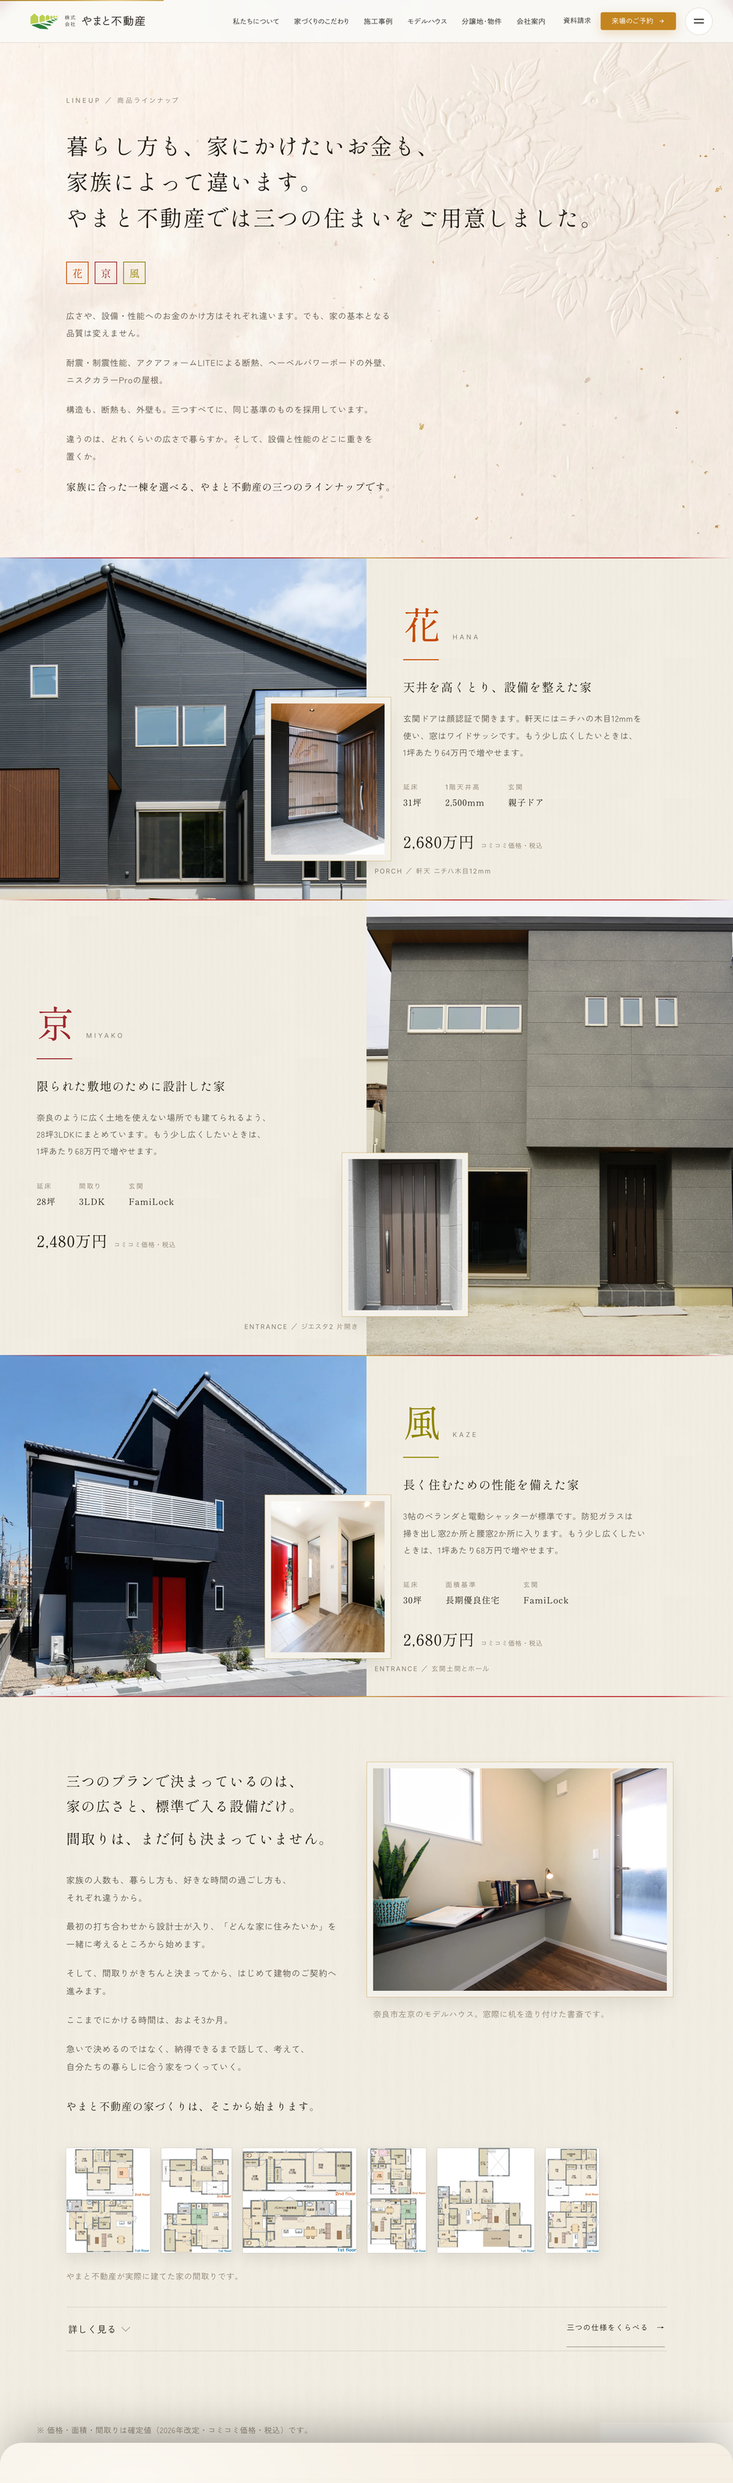
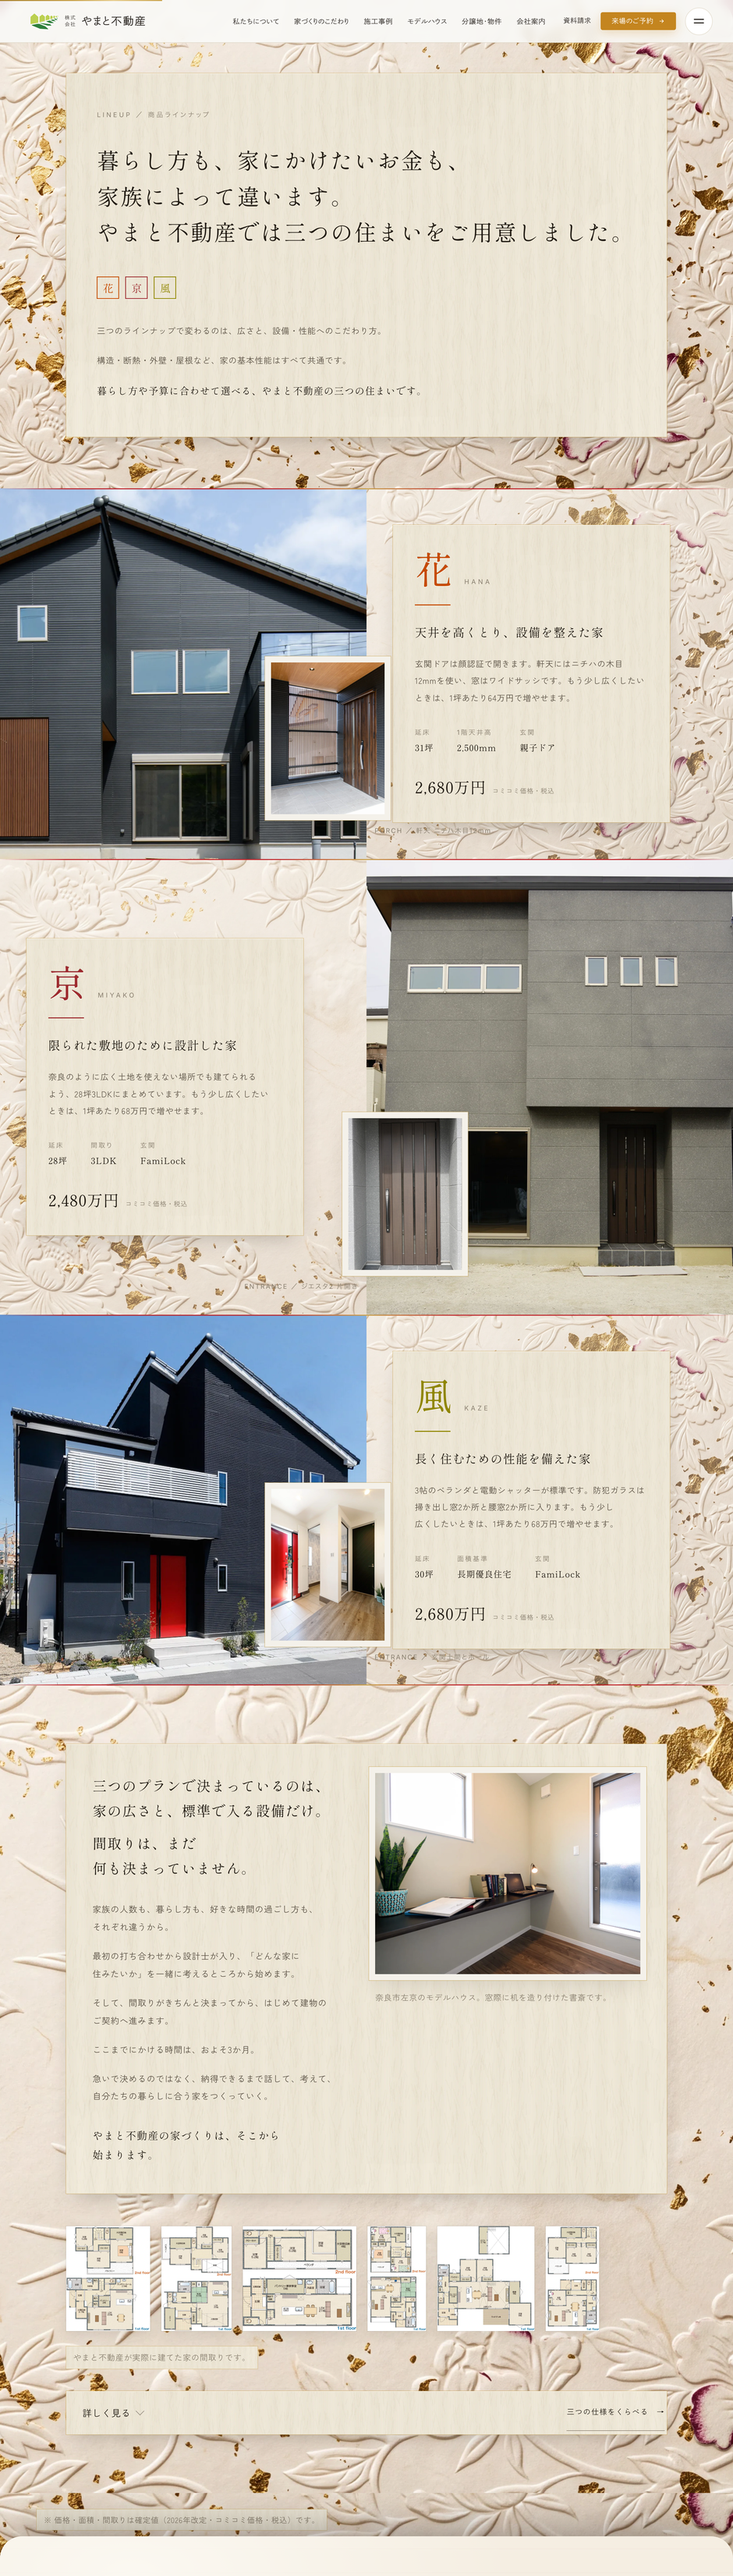
lineup: 「貼り込みのカタログ」へ再構築 — 装飾は台紙で全開、文字は紙葉の上
ユーザー指摘「ここはページの心臓。背景や装飾がもっとも上質であるべき」。

■ 診断
承認済みセクションは全て「物」になっている（FV=箔押しカタログ、信条=台紙と手紙、
声=便箋と消印）のに、lineupだけ紙が「背景」でWebページのままだった。
質感を殺した犯人は自分: 文字を地に直接乗せる設計にしたため、可読性のために
床をクランプし薄膜を重ね、空押し紙を半殺しで使っていた（実測ざらつき1.39）。
解は信条の「台紙と手紙」——面を分ければ質感と可読性の綱引きは消える。

■ 実装
・台紙: 牡丹の環＋燕＋金箔＋紅の花弁を全開で焼いた紙を新規生成
  （nano_banana_pro・クランプなし。ざらつき10.6=FV表紙5.19の2倍。
  生成は「商品撮影」として紙の縁と灰地が写るので内側3900x2560を切り出した。
  縁が濃く中央が静かな構図＝紙葉が中央を覆う台紙として理想）
・紙葉: 入口・帯パネル・出口本文・扉列を page_kinari_letter（コントラスト床保証済み）
  ＋金の毛罫＋持ち上げ影の紙葉に。台紙には文字を一切乗せない
  （台紙直載りだった間取りキャプションと注記はチップ化）
・帯パネルの台紙は cover 拡大で金箔が巨大化するため薄膜.30で半歩引かせ、
  帯ごとに切り取り位置を変えて繰り返しを消した
・花京風の大文字は活版の空押し（シリーズ色インク＋紙の凹み）。金文字はやらない
・旧・箔燕オーバーレイと入口の旧生成紙は台紙が役割を持つため撤去

■ 罠2つ
・SPで見出しspanが器より広くなり句の途中で折れた（「かけた/いお金も」）
  → 640px以下はinlineに戻して word-break:auto-phrase の文節折りに任せる
・紙葉のパディング分で320pxの価格が「2,680万|円」と割れた
  → 金額と注記に white-space:nowrap、行はflex-wrapで丸ごと折る

mobile-verify: #lineup 由来 FAIL 0。

diff --git a/index.html b/index.html
@@ -645,6 +645,13 @@
     --lu-fg:"Zen Kaku Gothic New",sans-serif;
     --lu-fn:"Inter",sans-serif;
     --lu-gx:clamp(22px,5vw,88px);
+    /* 台紙（貼り込みカタログ 2026-08-21）: 装飾は台紙で全開、文字は紙葉の上。
+       面を分けたので台紙側に可読性の制約が無い（信条の「台紙と手紙」と同じ解）。 */
+    --lu-mount:url("assets/std/lineup_mount_2400.webp");
+    --lu-sheet-bg:url("assets/std/page_kinari_letter_2400.webp");
+    --lu-sheet-edge:0 0 0 1px rgba(201,162,75,.5),
+      inset 0 1px 0 rgba(255,255,255,.65),
+      0 18px 40px -18px rgba(36,30,22,.30);
     --lu-ground:linear-gradient(rgba(244,241,234,.62),rgba(244,241,234,.62)),
       url("assets/std/page_kinari_letter_2400.webp");
     color:var(--lu-sumi);background:var(--lu-paper);
@@ -652,20 +659,25 @@
   .lineup img{display:block;max-width:100%}
 
   /* ───── 章の入り口 ───── */
-  /* 入り口だけ、牡丹と燕を空押しした生成り紙（Higgsfield生成・FV表紙の対）。
-     モチーフは右上なので right top で固定する。全ブロックに敷くと牡丹が
-     5回繰り返して壁紙になるので、ここ一度だけ。
-     文字が乗る左側は床を80%にクランプ済み（最暗76%＝墨に対し9.25、下限7.83）。*/
+  /* 入り口: 台紙の上に紙葉。牡丹の環は縁が濃く中央が静かなので、
+     紙葉が中央を覆っても縁の装飾が生きる。 */
   .lu-op{position:relative;overflow:hidden;
-    padding:clamp(88px,13vw,190px) var(--lu-gx) clamp(64px,9vw,120px);
-    background:url("assets/std/lineup_paper_2400.webp") right top/cover var(--lu-paper)}
-  .lu-op__in{position:relative;z-index:1;max-width:1180px;margin:0 auto}
+    padding:clamp(72px,10vw,150px) var(--lu-gx) clamp(56px,7vw,104px);
+    background:var(--lu-mount) center top/cover var(--lu-paper)}
+  .lu-op__in{position:relative;z-index:1;max-width:1180px;margin:0 auto;
+    background:var(--lu-sheet-bg) center/cover #F4EEE0;
+    box-shadow:var(--lu-sheet-edge);
+    padding:clamp(40px,5vw,80px) clamp(24px,4.2vw,72px)}
   .lu-eyebrow{display:block;margin:0 0 clamp(26px,3.4vw,44px);font-family:var(--lu-fn);
     font-weight:400;font-size:.8rem;letter-spacing:.3em;color:var(--lu-sumi3);text-transform:uppercase}
   .lu-h{margin:0;line-break:strict;font-family:var(--lu-fm);font-weight:400;
     font-size:clamp(1.5rem,1.02rem + 2.05vw,2.72rem);line-height:1.62;letter-spacing:.055em}
-  /* 句ごとに inline-block。句の途中で折れて1〜2字が孤立するのを防ぐ */
+  /* 句ごとに inline-block。句の途中で折れて1〜2字が孤立するのを防ぐ。
+     SPでは span 自体が器より広くなり中で折れてしまうので、通常フローに戻して
+     word-break:auto-phrase の文節折りに任せる */
+  .lu-h{word-break:auto-phrase}
   .lu-h span{display:inline-block}
+  @media (max-width:640px){ .lu-h span{display:inline} }
   /* 旧3分割見出し用の指定。いまの構成では句の途中で折れる原因になるため撤去 */
   .lu-lead{margin:clamp(30px,3.6vw,48px) 0 0;max-width:44em;line-break:strict;word-break:auto-phrase;
     font-size:clamp(.94rem,.88rem + .22vw,1.03rem);line-height:2.06;letter-spacing:.045em;color:var(--lu-sumi2)}
@@ -721,12 +733,22 @@
     font-family:var(--lu-fn);font-weight:400;font-size:.8rem;letter-spacing:.16em;color:var(--lu-sumi3)}
   .lu-band--flip .lu-cap{left:auto;right:calc(50% + clamp(10px,1.1vw,18px))}
 
+  /* パネルの台紙: cover で拡大されると金箔が巨大化するので薄膜で半歩引かせ、
+     帯ごとに切り取る位置を変えて「同じ紙の繰り返し」に見せない */
   .lu-band__panel{position:relative;display:flex;flex-direction:column;justify-content:center;
-    background:var(--lu-ground) center/cover var(--lu-paper);background-size:auto,62% auto;
-    padding:clamp(52px,6.4vw,96px) clamp(28px,5vw,86px)}
-  .lu-band__in{max-width:30em}
+    background:linear-gradient(rgba(244,241,234,.30),rgba(244,241,234,.30)),
+      var(--lu-mount) center/cover var(--lu-paper);
+    padding:clamp(40px,5vw,76px) clamp(22px,3.6vw,64px)}
+  .lu-band--hana .lu-band__panel{background-position:center, right top}
+  .lu-band--kyo  .lu-band__panel{background-position:center, left center}
+  .lu-band--kaze .lu-band__panel{background-position:center, right bottom}
+  .lu-band__in{max-width:34em;
+    background:var(--lu-sheet-bg) center/cover #F4EEE0;
+    box-shadow:var(--lu-sheet-edge);
+    padding:clamp(28px,3.4vw,48px) clamp(22px,3vw,44px)}
   .lu-mark{display:flex;align-items:baseline;gap:clamp(14px,1.6vw,22px);margin:0}
   .lu-kanji{font-family:var(--lu-fm);font-weight:400;line-height:1;
+    text-shadow:0 -1px 0 rgba(36,30,22,.16), 0 1px 0 rgba(255,255,255,.7);
     font-size:clamp(2.9rem,2rem + 3.9vw,4.6rem);letter-spacing:.02em}
   .lu-romaji{font-family:var(--lu-fn);font-weight:400;font-size:.8rem;letter-spacing:.34em;
     color:var(--lu-sumi3);text-transform:uppercase}
@@ -742,7 +764,9 @@
   .lu-facts .k{font-family:var(--lu-fn);font-weight:400;font-size:.8rem;letter-spacing:.2em;
     color:var(--lu-sumi3);text-transform:uppercase}
   .lu-facts .v{font-family:var(--lu-fm);font-weight:400;font-size:1.06rem;letter-spacing:.05em}
-  .lu-price{margin:clamp(30px,3.4vw,42px) 0 0;display:flex;align-items:baseline;gap:12px}
+  .lu-price{margin:clamp(30px,3.4vw,42px) 0 0;display:flex;flex-wrap:wrap;align-items:baseline;gap:4px 12px}
+  /* 320pxで「2,680万|円」と数字の途中で割れた。金額と注記は語として不可分 */
+  .lu-price b,.lu-price span{white-space:nowrap}
   .lu-price b{font-family:var(--lu-fm);font-weight:400;
     font-size:clamp(1.36rem,1.1rem + 1.05vw,1.92rem);letter-spacing:.03em}
   .lu-price span{font-size:.8rem;letter-spacing:.06em;color:var(--lu-sumi3)}
@@ -751,8 +775,8 @@
   .lu-band--kaze .lu-kanji{color:var(--lu-kaze)} .lu-band--kaze .lu-rule{background:var(--lu-kaze)}
 
   /* ───── 章の出口 ───── */
-  .lu-cl{position:relative;overflow:hidden;padding:clamp(76px,10vw,140px) var(--lu-gx);
-    background:var(--lu-ground) center/cover var(--lu-paper);background-size:auto,62% auto}
+  .lu-cl{position:relative;overflow:hidden;padding:clamp(64px,8vw,120px) var(--lu-gx);
+    background:var(--lu-mount) center bottom/cover var(--lu-paper)}
   .lu-cl__in{max-width:1180px;margin:0 auto}
   /* 自由設計の断り。三つの帯が「決まった商品が三つ」に読めるので、
      間取りは型ではないことをここで言う。新しい視覚言語は足さず、
@@ -762,7 +786,9 @@
      <summary> の中に <a> は置けないので、CTA は details の兄弟にして
      summary 行へ重ねている。SPでは重ねずに下へ落とす。 */
   .lu-doors{position:relative;margin:clamp(30px,3.6vw,44px) 0 0;
-    border-top:1px solid rgba(36,30,22,.14);border-bottom:1px solid rgba(36,30,22,.14)}
+    background:var(--lu-sheet-bg) center/cover #F4EEE0;
+    box-shadow:var(--lu-sheet-edge);
+    padding:0 clamp(16px,2vw,28px)}
   .lu-more{border:0}
   .lu-more summary{list-style:none;cursor:pointer;display:flex;align-items:center;
     justify-content:flex-start;gap:12px;min-height:44px;
@@ -879,7 +905,10 @@
   /* 二人は写真が無いので名前で立てる */
   .lu-pair:last-of-type .lu-blk__h{font-size:clamp(1.28rem,1.1rem + .78vw,1.72rem)}
 
-  .lu-freewrap{display:grid;grid-template-columns:minmax(0,1fr);gap:clamp(30px,3.4vw,44px)}
+  .lu-freewrap{display:grid;grid-template-columns:minmax(0,1fr);gap:clamp(30px,3.4vw,44px);
+    background:var(--lu-sheet-bg) center/cover #F4EEE0;
+    box-shadow:var(--lu-sheet-edge);
+    padding:clamp(32px,4vw,64px) clamp(24px,3.6vw,60px)}
   @media (min-width:960px){
     .lu-freewrap{grid-template-columns:minmax(0,46%) minmax(0,1fr);
       column-gap:clamp(38px,4.2vw,64px);align-items:start}
@@ -902,7 +931,9 @@
   .lu-plan{margin:0;flex:0 0 auto;background:#fff;
     box-shadow:0 0 0 1px rgba(36,30,22,.09), 0 10px 26px rgba(36,30,22,.10)}
   .lu-plan img{display:block;height:clamp(150px,17vw,232px);width:auto}
-  .lu-plans__cap{margin:clamp(16px,1.9vw,24px) 0 0;
+  .lu-plans__cap{display:inline-block;margin:clamp(16px,1.9vw,24px) 0 0;
+    background:var(--lu-sheet-bg) center/cover #F4EEE0;box-shadow:0 0 0 1px rgba(201,162,75,.4);
+    padding:6px 14px;
     font-size:clamp(.95rem,.92rem + .1vw,.99rem);line-height:2.0;letter-spacing:.045em;
     color:var(--lu-sumi3)}
   @media (min-width:1100px){
@@ -965,9 +996,11 @@
     white-space:nowrap;box-shadow:inset 0 -1px 0 var(--lu-sumi3)}
   .lu-cl__a:hover{box-shadow:inset 0 -1px 0 var(--lu-sumi)}
   /* ※注記は装飾ラベルではなく本文。15px下限を守る */
-  .lu-foot{margin:0;padding:0 var(--lu-gx) clamp(56px,7vw,90px);max-width:1180px;
+  .lu-foot{margin:0;padding:clamp(20px,2.4vw,32px) var(--lu-gx) clamp(56px,7vw,90px);
     font-size:.95rem;line-height:1.9;letter-spacing:.04em;color:var(--lu-sumi3);
-    background:var(--lu-ground) center/cover var(--lu-paper);background-size:auto,62% auto}
+    background:var(--lu-mount) center bottom/cover var(--lu-paper);background-size:auto,62% auto}
+  .lu-foot span{display:inline-block;background:var(--lu-sheet-bg) center/cover #F4EEE0;
+    box-shadow:0 0 0 1px rgba(201,162,75,.4);padding:6px 14px}
 
   .lineup [data-rise]{opacity:0;transform:translateY(26px);
     transition:opacity 1s var(--ease-soft,cubic-bezier(.22,1,.36,1)),transform 1.1s var(--ease-soft,cubic-bezier(.22,1,.36,1));
@@ -1791,7 +1824,7 @@
       </div>
     </div>
   </div>
-  <p class="lu-foot">※ 価格・面積・間取りは確定値（2026年改定・コミコミ価格・税込）です。</p>
+  <p class="lu-foot"><span>※ 価格・面積・間取りは確定値（2026年改定・コミコミ価格・税込）です。</span></p>
 </section>
 
 <!-- ============ なぜ、この値段で（施工断面×正直な二列） ============ -->
